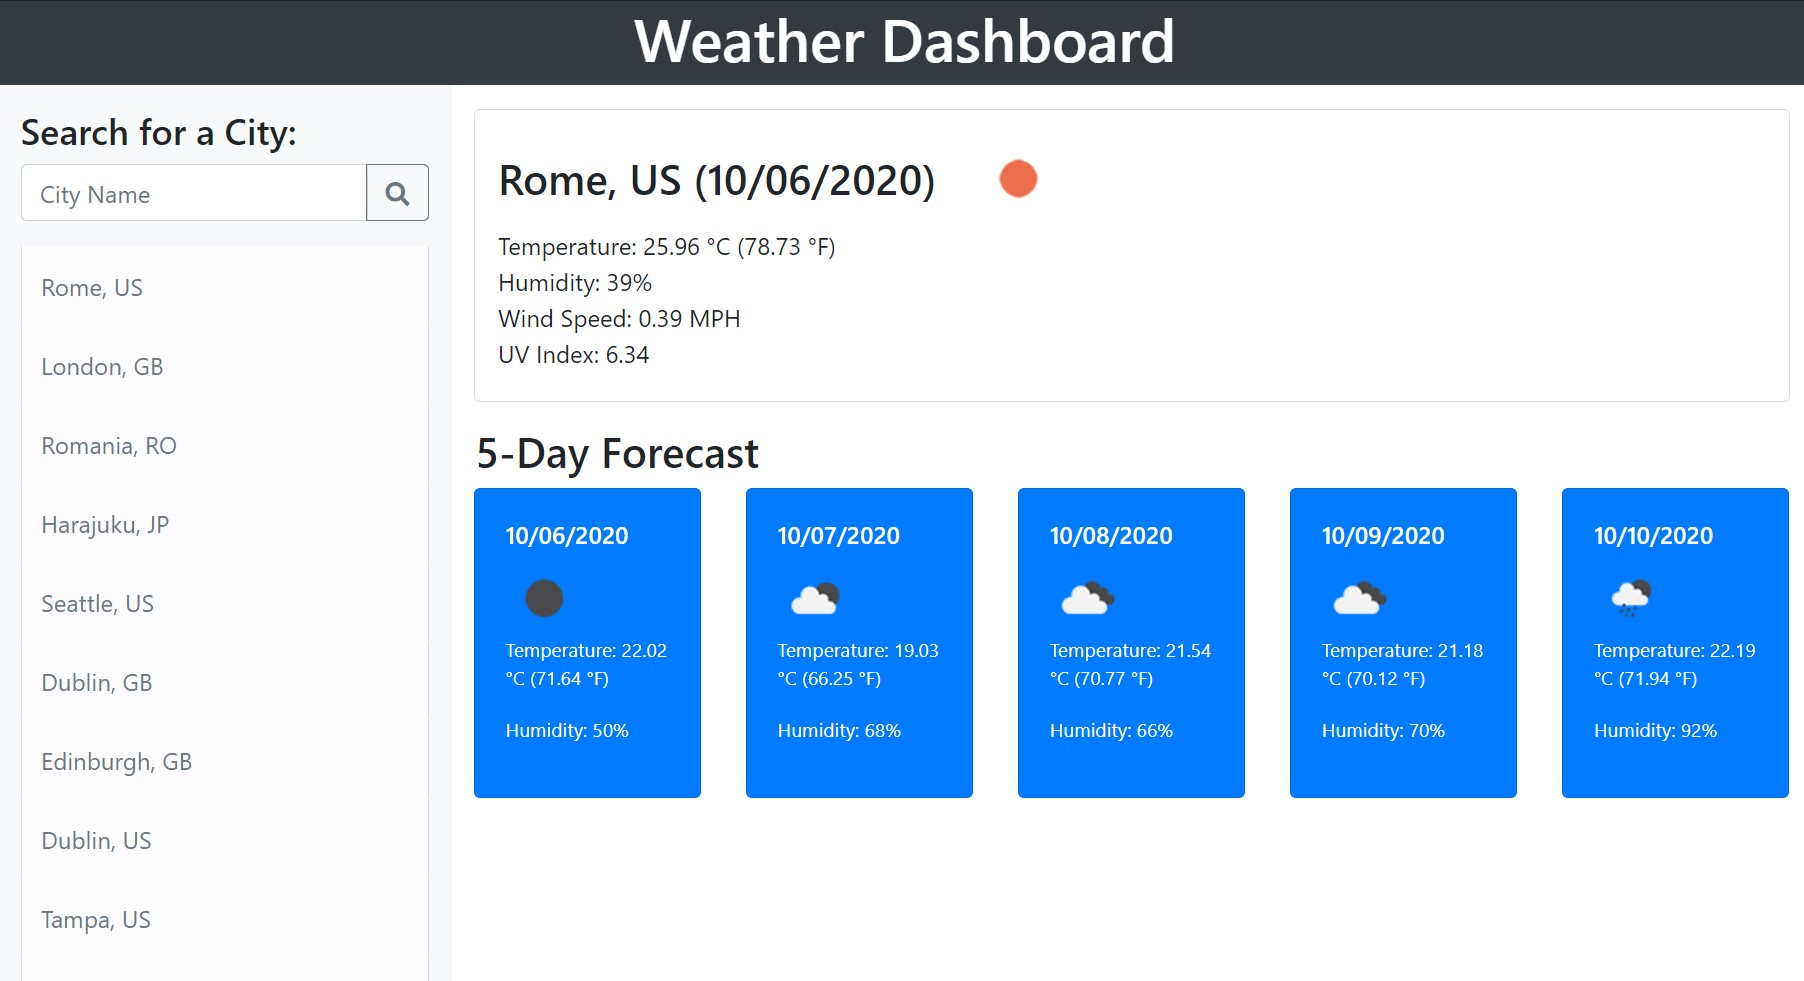
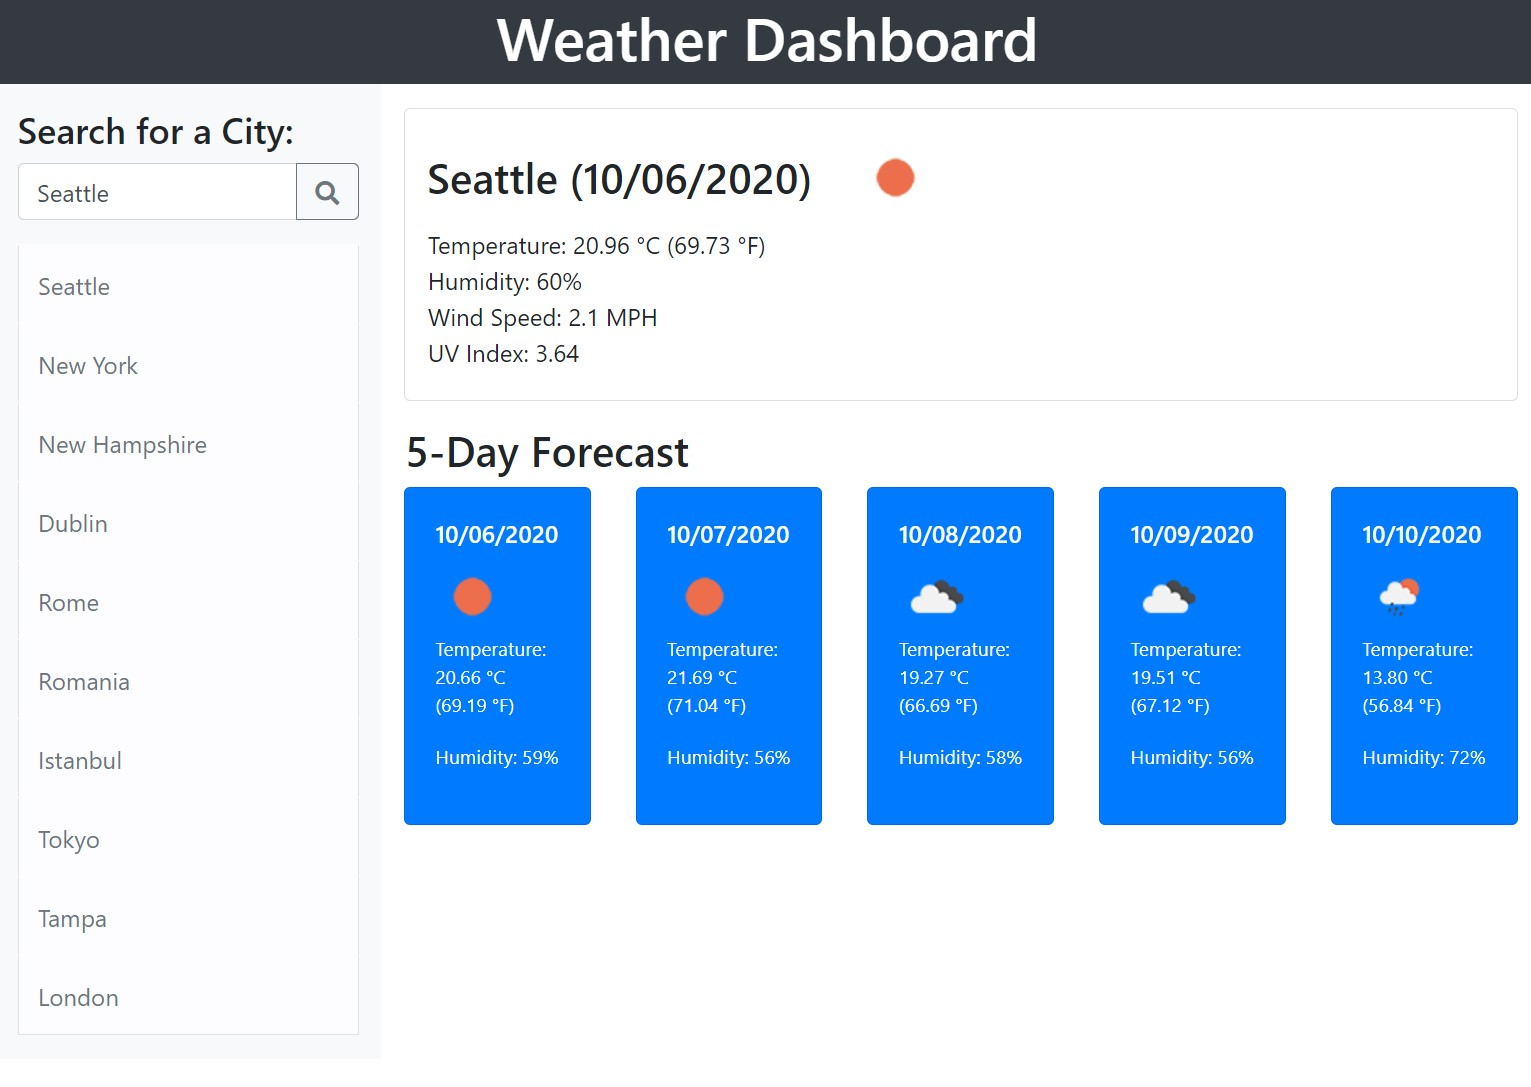
Updated Returns in JS

diff --git a/index.html b/index.html
@@ -130,7 +130,6 @@
             
                 <script src="https://cdnjs.cloudflare.com/ajax/libs/jquery/3.5.1/jquery.min.js"></script>
                 <script src="https://cdnjs.cloudflare.com/ajax/libs/moment.js/2.29.0/moment.min.js"></script>
-                <script src="https://kit.fontawesome.com/5a5521531b.js" crossorigin="anonymous"></script>
                 <script src='./assets/js/config.js'></script>
                 <script src="./assets/js/script.js"></script>
     </body>

diff --git a/assets/js/script.js b/assets/js/script.js
@@ -115,7 +115,7 @@ let dateString = (unixTime => {
 })
 
 let showValuesOnPage = (() => {
-    let searchString = cityName + ', ' + countryCode;
+    let searchString = cityName; // If you wanted Country to show, add <  + ', ' + countryCode >
     $('#city-name').text(searchString + ' (' + dateString(Date.now()) + ')');
     addToSearchHistory(searchString, Date.now());
     renderSearchHistory();
